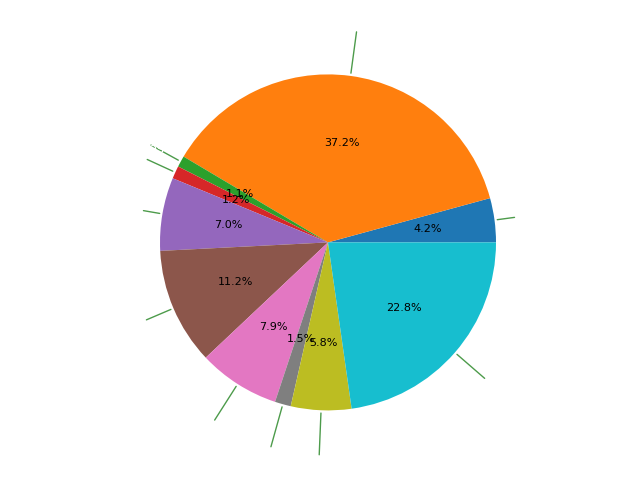
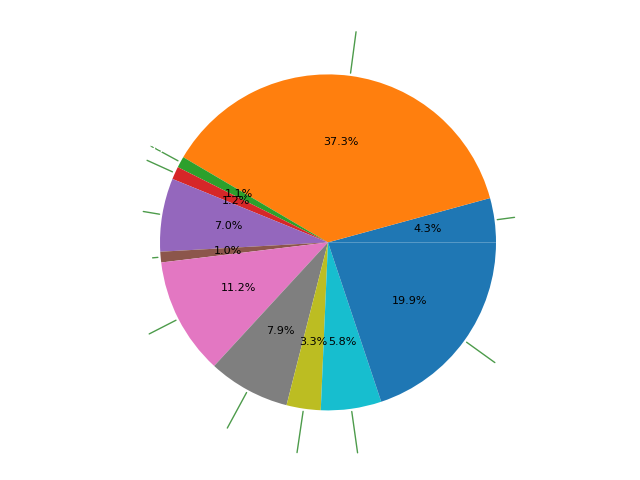
Small changes to the styles in the html

diff --git a/templates/expenses.html b/templates/expenses.html
@@ -9,7 +9,7 @@
     <link rel="stylesheet" href="{{url_for('static', filename='css/home.css')}}">
     <title>Despesas</title>
 </head>
-<body style="margin-top: 2%;">
+<body style="margin-top: 2%; overflow: hidden;">
     <div class="header-wrapper" style="flex-direction: column; align-items: center; justify-content: center; text-align: center;">
         <h1>Despesas</h1>
         <p>Total de despesas: {{ expenses }}</p>

diff --git a/templates/profits.html b/templates/profits.html
@@ -9,7 +9,7 @@
     <link rel="stylesheet" href="{{url_for('static', filename='css/home.css')}}">
     <title>Lucros</title>
 </head>
-<body style="margin-top: 2%;">
+<body style="margin-top: 2%; overflow: hidden;">
     <div class="header-wrapper" style="flex-direction: column; align-items: center; justify-content: center; text-align: center;">
         <h1>Lucros</h1>
         <p>Total de lucros: {{ profits }}</p>

diff --git a/static/css/statement.css b/static/css/statement.css
@@ -15,7 +15,8 @@
     display: flex;
     justify-content: space-between;
     align-items: center;
-    margin-top: 12%;
+    margin-top: 7%;
+    margin-bottom: 7%;
 }
 
 .header-wrapper {

diff --git a/handlers.py b/handlers.py
@@ -872,6 +872,8 @@ def filter_operations(dic):
         "Alimentação" : 0,
         "Pagamentos" : 0,
         "Tecnologia" : 0,
+        "Cultura" : 0,
+        "Combustíveis" : 0,
         "Outros" : 0
     }
 
@@ -889,12 +891,14 @@ def filter_operations(dic):
         "Viagens" : ["EASYJET"],
         "Hotelaria" : ["HOTEL", "HOTELARIA"],
         "Ordenados" : ["Ordenado", "ORDENADO", "SALÁRIO", "SALARIO"],
-        "Restauração" : ["RESTAURANTE", "RESTAURAÇÃO", "RESTAURACAO", "RESTAURACAO", "MALANDRINHO", "LEITARIA", "GELATARIA", "GELADOS", "GELADO"],
+        "Restauração" : ["ARAUJO","ARAUJO VIDE","RESTAURANTE", "RESTAURAÇÃO", "RESTAURACAO", "RESTAURACAO", "MALANDRINHO", "LEITARIA", "GELATARIA", "GELADOS", "GELADO"],
         "Saúde" : ["WELL'S","WELLS", "FARMACIA", "CELEIRO", "FARMÁCIA", "FARMACIAS", "FARMÁCIAS"],
         "Moda" : ["SPRING","SPRING.8.AV.S.J.MAD.","HM", "ZARA", "BERSHKA", "PULL&BEAR", "STRADIVARIUS", "ZARA HOME", "ZARA.COM", "BERSHKA.COM", "PULLANDBEAR.COM", "STRADIVARIUS.COM", "ZARA HOME.COM", "ZARA.COM", "INTIMISSIMI"],
         "Estacionamento" : ["ESTACIONAMENTO", "PARQUIMETRO", "PARQUÍMETRO", "PARQUIMETROS", "PARQUÍMETROS", "EMEL", "PARQUE"],
-        "Alimentação" : ["CONTINENTE", "MINIPREÇO", "LIDL", "ALDI", "PÃO DE AÇÚCAR", "PÃO DE ACUCAR", "PÃO DE AÇUCAR", "PÃO DE ACÚCAR", "PINGO DOCE" , "PINGO", "PAO"],
-        "Tecnologia" : ["PCDIGA", "FNAC", "WORTEN", "RÁDIO", "RADIO", "SAMSUNG", "RÁDIO POPULAR", "APPLE"]
+        "Alimentação" : ["ASSICANTI","CONTINENTE", "MINIPREÇO", "LIDL", "ALDI", "PÃO DE AÇÚCAR", "PÃO DE ACUCAR", "PÃO DE AÇUCAR", "PÃO DE ACÚCAR", "PINGO DOCE" , "PINGO", "PAO"],
+        "Tecnologia" : ["PCDIGA", "FNAC", "WORTEN", "RÁDIO", "RADIO", "SAMSUNG", "RÁDIO POPULAR", "APPLE"],
+        "Cultura" : ["BOL"],
+        "Combustíveis" : ["GALP", "REPSOL", "BP", "CEPSA", "GALP ENERGIA", "REPSOL PORTUGAL", "BP PORTUGAL", "CEPSA PORTUGAL", "CPCP", "CPCP - COMBUSTÍVEIS, S.A."],
     }
     new_dic = {}
     for element in dic:
@@ -939,10 +943,12 @@ def filter_operations(dic):
             dic_operations["Estacionamento"] += valor
         elif upper_element_1 in dic_options["Alimentação"] or upper_element_join in dic_options["Alimentação"]:
             dic_operations["Alimentação"] += valor
-        elif upper_element_1 in dic_options["Pagamentos"] or upper_element_join in dic_options["Pagamentos"]:
-            dic_operations["Pagamentos"] += valor
         elif upper_element_1 in dic_options["Tecnologia"] or upper_element_join in dic_options["Tecnologia"]:
             dic_operations["Tecnologia"] += valor
+        elif upper_element_1 in dic_options["Cultura"] or upper_element_join in dic_options["Cultura"]:
+            dic_operations["Cultura"] += valor
+        elif upper_element_1 in dic_options["Combustíveis"] or upper_element_join in dic_options["Combustíveis"]:
+            dic_operations["Combustíveis"] += valor
         else:
             print(upper_element_1, upper_element_join)
             dic_operations["Outros"] += valor
